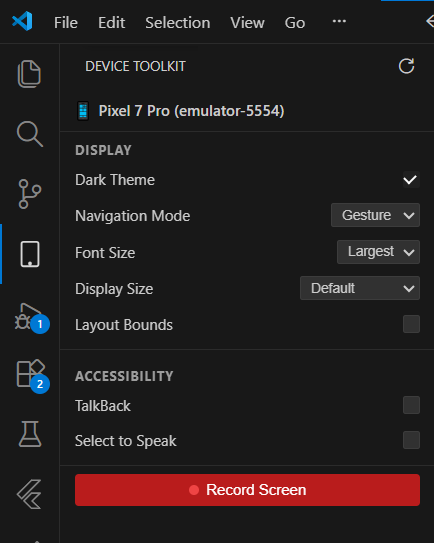
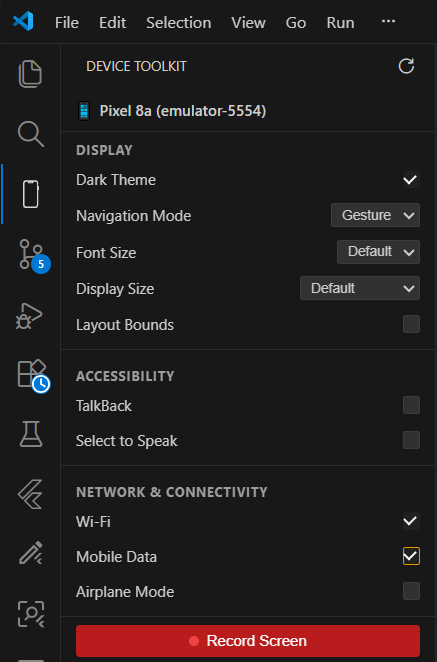
docs: Update README with network and connectivity controls documentation
- Update main tagline and feature table in `README.md` to include Network & Connectivity controls.
- Document new commands for toggling Wi-Fi, Mobile Data, and Airplane Mode.
- Document user configuration settings for debug toolbar network buttons (`showWifiButton`, `showMobileDataButton`, and `showAirplaneModeButton`).
- Add `network-controls.png` asset and update `sidebar-preview.png` preview image.

diff --git a/README.md b/README.md
@@ -1,6 +1,6 @@
 # Device Toolkit
 
-> **Android Studio-style mobile & emulator developer controls inside VS Code's debug toolbar and sidebar.** Easily manage Dark Mode, Navigation Mode, Accessibility (TalkBack & Select to Speak), Display & Font Scaling, Layout Bounds, and Screen Recording directly from your editor.
+> **Android Studio-style mobile & emulator developer controls inside VS Code's debug toolbar and sidebar.** Easily manage Dark Mode, Navigation Mode, Connectivity (Wi-Fi, Mobile Data & Airplane Mode), Accessibility (TalkBack & Select to Speak), Display & Font Scaling, Layout Bounds, and Screen Recording directly from your editor.
 
 ---
 
@@ -40,6 +40,7 @@ When developing mobile applications with **Flutter**, **React Native**, or **And
 | **Font & Display Scaling** | Adjust font sizes (Small to Largest) and display density (280–560 DPI)                                               | <img src="assets/docs/font-scaling.png" width="350" alt="Font Scaling"> <img src="assets/docs/display-size.png" width="350" alt="Display Size"> |
 | **Accessibility Tools**    | Toggle TalkBack screen reader and Select to Speak accessibility services                                             | <img src="assets/docs/talkback.png" width="350" alt="TalkBack"> <img src="assets/docs/select-to-speak.png" width="350" alt="Select to Speak">   |
 | **Layout Bounds**          | Show or hide view boundary borders for pixel-perfect UI debugging                                                    | <img src="assets/docs/layout-bounds.png" width="350" alt="Layout Bounds">                                                                       |
+| **Network & Connectivity** | Toggle Wi-Fi, Mobile Data, and Airplane Mode instantly without opening Android system settings                       | <img src="assets/docs/network-controls.png" width="350" alt="Network Controls">                                                                 |
 | **Screen Recording**       | Record device screen (up to 3 minutes) with optional auto-open in editor                                             | <img src="assets/docs/screen-recording.png" width="350" alt="Screen Recording">                                                                 |
 | **Multi-Device Support**   | Auto-detect multiple devices; click the device name header at the top of the sidebar view to switch instantly        | <img src="assets/docs/device-switcher.png" width="350" alt="Device Switcher">                                                                   |
 
@@ -98,6 +99,9 @@ Press `Ctrl+Shift+P` (or `Cmd+Shift+P` on macOS) and type **Device Toolkit**:
 - `Font Size…`
 - `Display Size…`
 - `Toggle Layout Bounds`
+- `Toggle Wi-Fi`
+- `Toggle Mobile Data`
+- `Toggle Airplane Mode`
 - `Record Screen`
 
 ---
@@ -117,6 +121,9 @@ Customize settings in **Settings** (`Ctrl+,` / `Cmd+,`) under **Device Toolkit**
 | `showFontSizeButton`      | `boolean` | `false` | Show a Font Size picker button on the debug toolbar.                                         |
 | `showDisplaySizeButton`   | `boolean` | `false` | Show a Display Size picker button on the debug toolbar.                                      |
 | `showLayoutBoundsButton`  | `boolean` | `false` | Show a Layout Bounds toggle button on the debug toolbar.                                     |
+| `showWifiButton`          | `boolean` | `false` | Show a Wi-Fi toggle button on the debug toolbar.                                             |
+| `showMobileDataButton`    | `boolean` | `false` | Show a Mobile Data toggle button on the debug toolbar.                                       |
+| `showAirplaneModeButton`  | `boolean` | `false` | Show an Airplane Mode toggle button on the debug toolbar.                                    |
 | `showRecordButton`        | `boolean` | `false` | Show a Screen Recording button on the debug toolbar.                                         |
 | `openRecordingAfterSave`  | `boolean` | `true`  | Automatically open saved screen recordings in the VS Code media viewer.                      |
 | `outputDirectory`         | `string`  | `""`    | Directory to save screen recordings. Defaults to `emulator-captures/` in the workspace root. |
